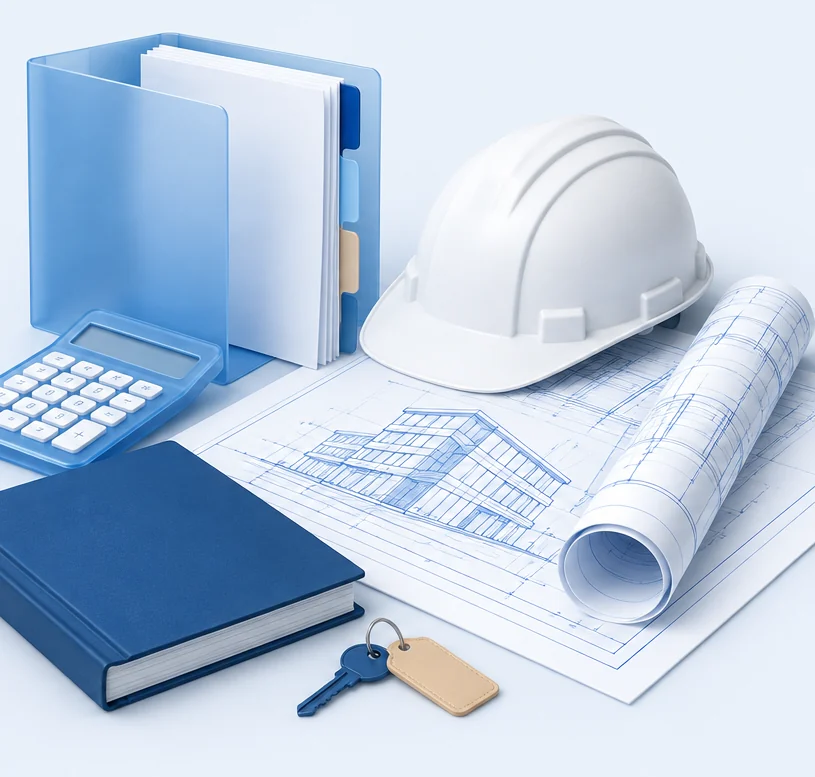
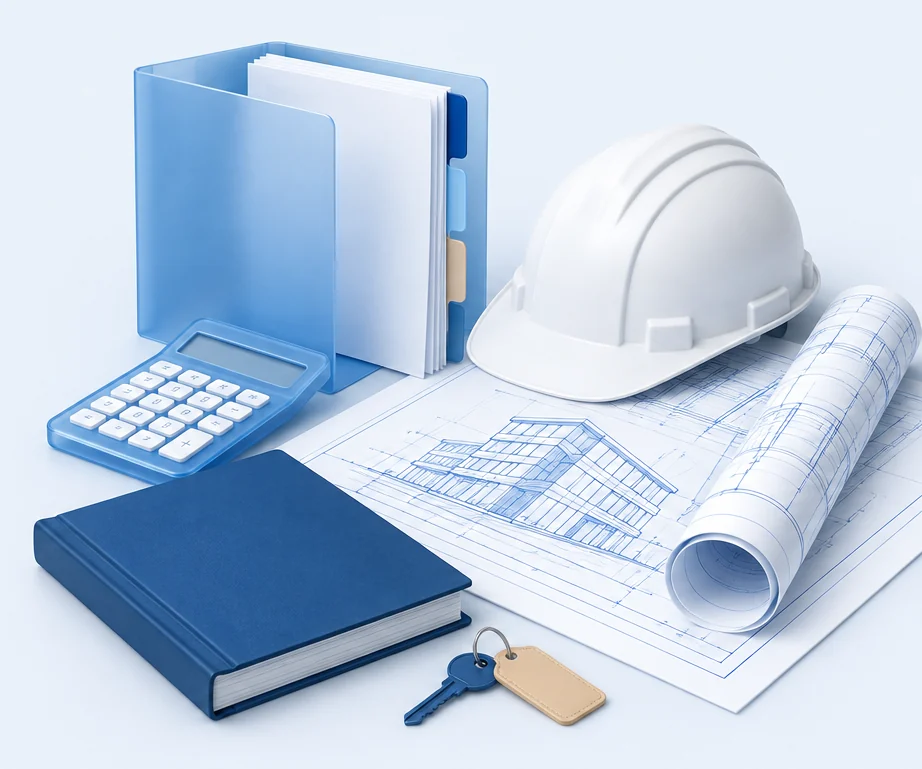
Правка №221: первый экран на телефоне — предметы целиком (#52)
* Правка №166: шапка снова на белом градиенте

Claude-Session: https://claude.ai/code/session_011Z1uAdjkje2gEy464RU376

* Правка №167: ширина контента 1400 px, карточки услуг ниже

Claude-Session: https://claude.ai/code/session_011Z1uAdjkje2gEy464RU376

* Правки №168–179: холодная палитра, КС-2/КС-3, без ФИО основателя, блоки главной и бухучёта

Claude-Session: https://claude.ai/code/session_011Z1uAdjkje2gEy464RU376

* Правки №180–182: кейсы без цифр, графиков и выводов, упр. учёт без цены на первом экране

Claude-Session: https://claude.ai/code/session_011Z1uAdjkje2gEy464RU376

* Правки №183–189: свой набор знаков, тёмные заголовки, квадраты на первом экране, путь шагов, проба логотипа

Claude-Session: https://claude.ai/code/session_011Z1uAdjkje2gEy464RU376

* Правки №190–194: иконки без плашек с градиентом, каска, шаги со знаком в уголке, знак-логотип

Claude-Session: https://claude.ai/code/session_011Z1uAdjkje2gEy464RU376

* Правка №195: проба иллюстраций 3D и 2D на блоке «Типичные ситуации»

Claude-Session: https://claude.ai/code/session_011Z1uAdjkje2gEy464RU376

* Правка №196: знак логотипа снят, в шапке только название

Claude-Session: https://claude.ai/code/session_011Z1uAdjkje2gEy464RU376

* Референс Яндекс 360: скриншоты ноутбука и телефона, размеры плашек и типографики

Claude-Session: https://claude.ai/code/session_011Z1uAdjkje2gEy464RU376
[…]

diff --git a/docs/правки-2026-10-28.md b/docs/правки-2026-10-28.md
@@ -419,3 +419,4 @@
 | 218 | Бухучёт, переключатель тарифов | Выглядел как часть дизайна, а не кнопки; растянуть | кнопки во всю ширину: активная синяя, остальные с обводкой и наведением |
 | 219 | «Работаем в программах», телефон | Показать, что ленту можно листать | белый градиент справа |
 | 220 | Бухучёт, «Что получает заказчик» | Две одинаковые иконки | у пунктов разные знаки: отправка, папка, график, галочка |
+| 221 | Первый экран, телефон | (по скриншоту) калькулятор и журнал срезаны краем экрана | обрезка картинки шире — все предметы целиком |
